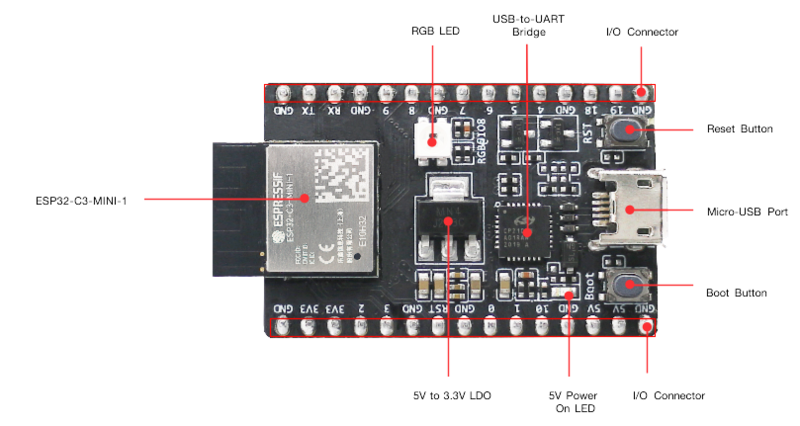
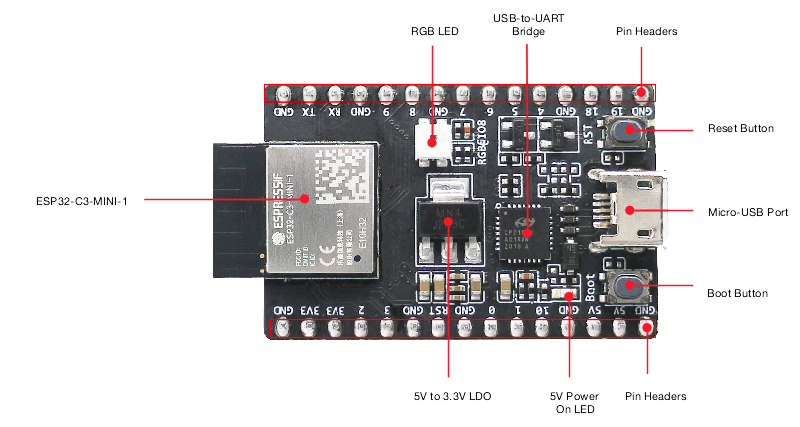
docs/update_two_esp32-c3_devkit_user_guides

diff --git a/docs/zh_CN/hw-reference/esp32c3/user-guide-devkitm-1.rst b/docs/zh_CN/hw-reference/esp32c3/user-guide-devkitm-1.rst
@@ -41,6 +41,8 @@ ESP32-C3-DevKitM-1 是一款入门级开发板，使用以尺寸小而得名的 
 
     ESP32-C3-DevKitM-1 - 正面
 
+以下按照逆时针的顺序依次介绍开发板上的主要组件。
+
 .. list-table::
    :widths: 30 70
    :header-rows: 1
@@ -49,22 +51,22 @@ ESP32-C3-DevKitM-1 是一款入门级开发板，使用以尺寸小而得名的 
      - 介绍
    * - ESP32-C3-MINI-1
      - ESP32-C3-MINI-1 是一款通用型 Wi-Fi 和低功耗蓝牙双模模组，采用 PCB 板载天线。该款模组集成配置 4 MB 嵌入式 flash 的 `ESP32-C3FN4 <https://www.espressif.com/sites/default/files/documentation/esp32-c3_datasheet_cn.pdf>`_ 芯片。由于 flash 直接封装在芯片中，ESP32-C3-MINI-1 模组具有更小的封装尺寸。
-   * - 5 V 转 3.3 V LDO
+   * - 5 V to 3.3 V LDO（5 V 转 3.3 V LDO）
      - 电源转换器，输入 5 V，输出 3.3 V。
-   * - 5 V 电源指示灯
+   * - 5 V Power On LED（5 V 电源指示灯）
      - 开发板连接 USB 电源后，该指示灯亮起。
-   * - I/O 连接器 
+   * - Pin Headers（排针）
      - 所有可用 GPIO 管脚（除 flash 的 SPI 总线）均已引出至开发板的排针。请查看 :ref:`user-guide-c3-devkitm-1-v1-header-blocks` 获取更多信息。
-   * - Boot 键
+   * - Boot Button（Boot 键）
      - 下载按键。按住 **Boot** 键的同时按一下 **Reset** 键进入“固件下载”模式，通过串口下载固件。
-   * - Micro-USB 接口
+   * - Micro-USB Port（Micro-USB 接口）
      - USB 接口。可用作开发板的供电电源或 PC 和 ESP32-C3FN4 芯片的通信接口。     
-   * - Reset 键
+   * - Reset Button（Reset 键）
      - 复位按键。 
-   * - USB 至 UART 桥接器
+   * - USB-to-UART Bridge（USB 至 UART 桥接器）
      - 单芯片 USB 至 UART 桥接器，可提供高达 3 Mbps 的传输速率。
    * - RGB LED
-     - 可寻址 RGB 发光二极管 (WS2812)，由 GPIO8 驱动。
+     - 可寻址 RGB 发光二极管，由 GPIO8 驱动。
 
 开始开发应用
 ------------
@@ -77,6 +79,10 @@ ESP32-C3-DevKitM-1 是一款入门级开发板，使用以尺寸小而得名的 
 - ESP32-C3-DevKitM-1
 - USB 2.0 数据线（标准 A 型转 Micro-B 型）
 - 电脑 （Windows、Linux 或 macOS）
+
+.. 注解::
+
+  请确保使用适当的 USB 数据线。部分数据线仅可用于充电，无法用于数据传输和编程。
 
 软件设置
 ^^^^^^^^
@@ -179,7 +185,7 @@ J3
 ====  ====  ==========  ================================
 
 .. [1] P：电源；I：输入；O：输出；T：可设置为高阻。
-.. [2] GPIO2、GPIO8、GPIO9 为 ESP32-C3FN4 芯片的 Strapping 管脚。在芯片的系统复位过程中，Strapping 管脚对自己管脚上的电平采样并存储到锁存器中，并一直保持到芯片掉电或关闭。Strapping 管脚的具体描述和应用，请参考 `ESP32-C3 技术规格书`_ 的 Strapping 管脚章节。 
+.. [2] GPIO2、GPIO8、GPIO9 为 ESP32-C3FN4 芯片的 Strapping 管脚。在芯片上电和系统复位过程中，Strapping 管脚根据管脚的二进制电压值控制芯片功能。Strapping 管脚的具体描述和应用，请参考 `ESP32-C3 技术规格书`_ 的 Strapping 管脚章节。 
 
 管脚布局
 ^^^^^^^^

diff --git a/docs/en/hw-reference/esp32c3/user-guide-devkitm-1.rst b/docs/en/hw-reference/esp32c3/user-guide-devkitm-1.rst
@@ -42,6 +42,8 @@ Description of Components
 
     ESP32-C3-DevKitM-1 - front
 
+The key components of the board are described in a counter-clockwise direction.
+
 .. list-table::
    :widths: 30 70
    :header-rows: 1
@@ -54,7 +56,7 @@ Description of Components
      - Power regulator that converts a 5 V supply into a 3.3 V output.
    * - 5 V Power On LED
      - Turns on when the USB power is connected to the board.
-   * - I/O Connector
+   * - Pin Headers
      - All available GPIO pins (except for the SPI bus for flash) are broken out to the pin headers on the board. For details, please see :ref:`user-guide-c3-devkitm-1-v1-header-blocks`.
    * - Boot Button
      - Download button. Holding down **Boot** and then pressing **Reset** initiates Firmware Download mode for downloading firmware through the serial port.
@@ -62,10 +64,10 @@ Description of Components
      - USB interface. Power supply for the board as well as the communication interface between a computer and the ESP32-C3FN4 chip.
    * - Reset Button
      - Press this button to restart the system.
-   * - USB to UART Bridge
+   * - USB-to-UART Bridge
      - Single USB-UART bridge chip provides transfer rates up to 3 Mbps.
    * - RGB LED
-     - Addressable RGB LED (WS2812), driven by GPIO8.
+     - Addressable RGB LED, driven by GPIO8.
 
 
 Start Application Development
@@ -79,6 +81,10 @@ Required Hardware
 - ESP32-C3-DevKitM-1  
 - USB 2.0 cable (Standard-A to Micro-B)
 - Computer running Windows, Linux, or macOS
+
+.. note::
+
+  Be sure to use an appropriate USB cable. Some cables are for charging only and do not provide the needed data lines nor work for programming the boards.
 
 Software Setup
 ^^^^^^^^^^^^^^
@@ -124,11 +130,11 @@ Power Supply Options
 
 There are three mutually exclusive ways to provide power to the board:
 
-- Micro-USB port, default power supply
+- Micro-USB Port, default power supply
 - 5V and GND pin headers
 - 3V3 and GND pin headers
 
-It is recommended to use the first option: micro-USB port.
+It is recommended to use the first option: Micro-USB Port.
 
 .. _user-guide-c3-devkitm-1-v1-header-blocks:
 
@@ -182,7 +188,7 @@ No.  Name  Type [1]_   Function
 ===  ====  ==========  ====================================
 
 .. [1] P: Power supply; I: Input; O: Output; T: High impedance.
-.. [2] GPIO2, GPIO8, and GPIO9 are strapping pins of the ESP32-C3FN4 chip. During the chip's system reset, the latches of the strapping pins sample the voltage level as strapping bits, and hold these bits until the chip is powered down or shut down. For description and application of strapping pins, please refer to Section Strapping Pins in `ESP32-C3 Datasheet`_.
+.. [2] GPIO2, GPIO8, and GPIO9 are strapping pins of the ESP32-C3FN4 chip. These pins are used to control several chip functions depending on binary voltage values applied to the pins during chip power-up or system reset. For description and application of the strapping pins, please refer to Section Strapping Pins in `ESP32-C3 Datasheet`_.
 
 Pin Layout
 ^^^^^^^^^^^

diff --git a/docs/en/hw-reference/esp32c3/user-guide-devkitc-02.rst b/docs/en/hw-reference/esp32c3/user-guide-devkitc-02.rst
@@ -41,6 +41,8 @@ Description of Components
 
     ESP32-C3-DevKitC-02 - front
 
+The key components of the board are described in a counter-clockwise direction.
+
 .. list-table::
    :widths: 30 70
    :header-rows: 1
@@ -53,7 +55,7 @@ Description of Components
      - Power regulator that converts a 5 V supply into a 3.3 V output.
    * - 5 V Power On LED
      - Turns on when the USB power is connected to the board.
-   * - I/O Connector
+   * - Pin Headers
      - All available GPIO pins (except for the SPI bus for flash) are broken out to the pin headers on the board. For details, please see :ref:`user-guide-c3-devkitc-02-v1-header-blocks`.
    * - Boot Button
      - Download button. Holding down **Boot** and then pressing **Reset** initiates Firmware Download mode for downloading firmware through the serial port.
@@ -81,7 +83,7 @@ Required Hardware
 
 .. note::
 
-  Be sure to use a good quality USB cable. Some cables are for charging only and do not provide the needed data lines nor work for programming the boards.
+  Be sure to use an appropriate USB cable. Some cables are for charging only and do not provide the needed data lines nor work for programming the boards.
 
 Software Setup
 ^^^^^^^^^^^^^^
@@ -127,11 +129,11 @@ Power Supply Options
 
 There are three mutually exclusive ways to provide power to the board:
 
-- Micro-USB port, default power supply
+- Micro-USB Port, default power supply
 - 5V and GND pin headers
 - 3V3 and GND pin headers
 
-It is recommended to use the first option: micro-USB port.
+It is recommended to use the first option: Micro-USB Port.
 
 .. _user-guide-c3-devkitc-02-v1-header-blocks:
 
@@ -185,7 +187,7 @@ No.  Name  Type [1]_   Function
 ===  ====  ==========  ====================================
 
 .. [1] P: Power supply; I: Input; O: Output; T: High impedance.
-.. [2] GPIO2, GPIO8, and GPIO9 are strapping pins of the ESP32-C3 chip. During the chip's system reset, the latches of the strapping pins sample the voltage level as strapping bits, and hold these bits until the chip is powered down or shut down. For description and application of strapping pins, please refer to Section Strapping Pins in `ESP32-C3 Datasheet`_.
+.. [2] GPIO2, GPIO8, and GPIO9 are strapping pins of the ESP32-C3 chip. These pins are used to control several chip functions depending on binary voltage values applied to the pins during chip power-up or system reset. For description and application of the strapping pins, please refer to Section Strapping Pins in `ESP32-C3 Datasheet`_.
 
 Pin Layout
 ^^^^^^^^^^^
